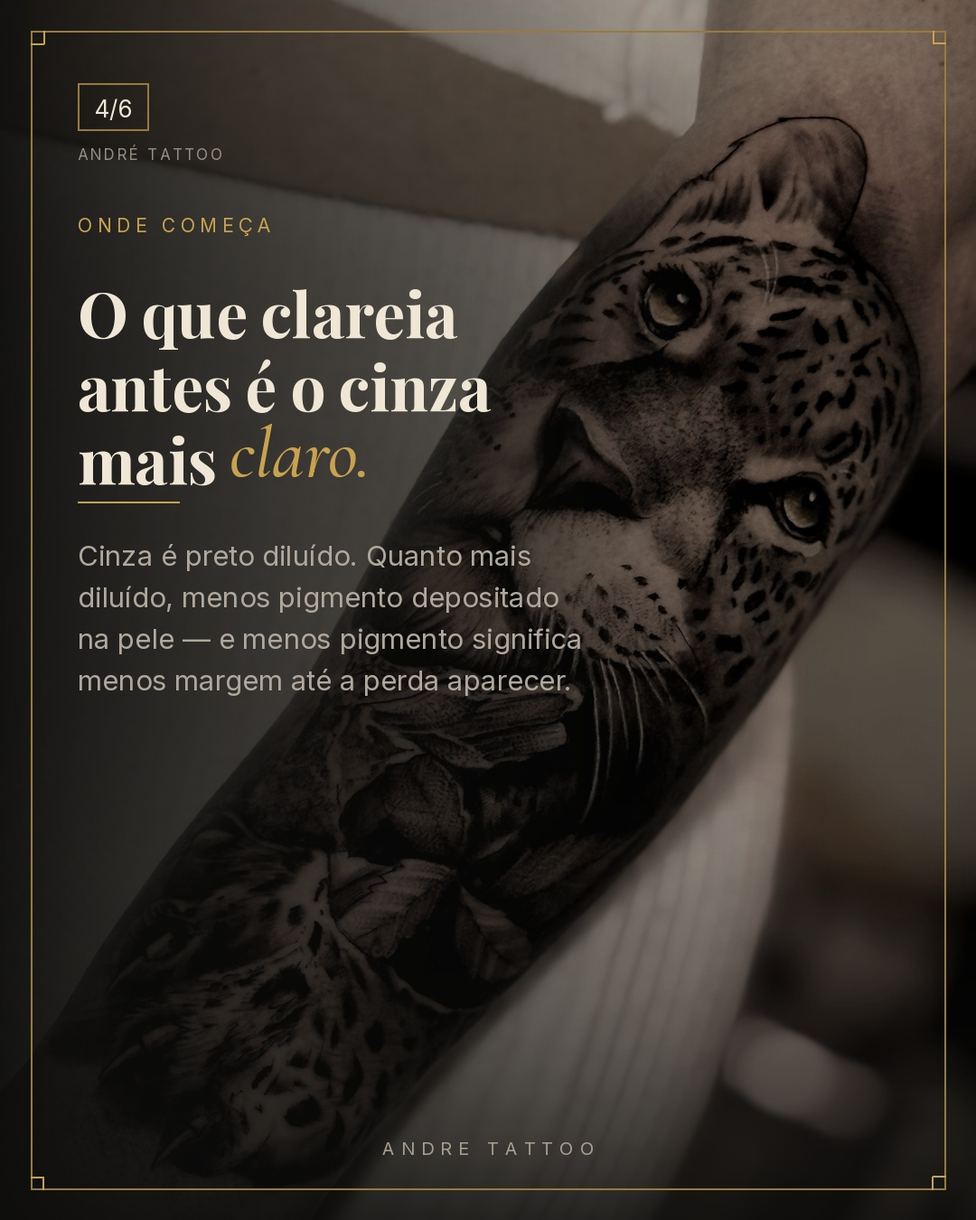
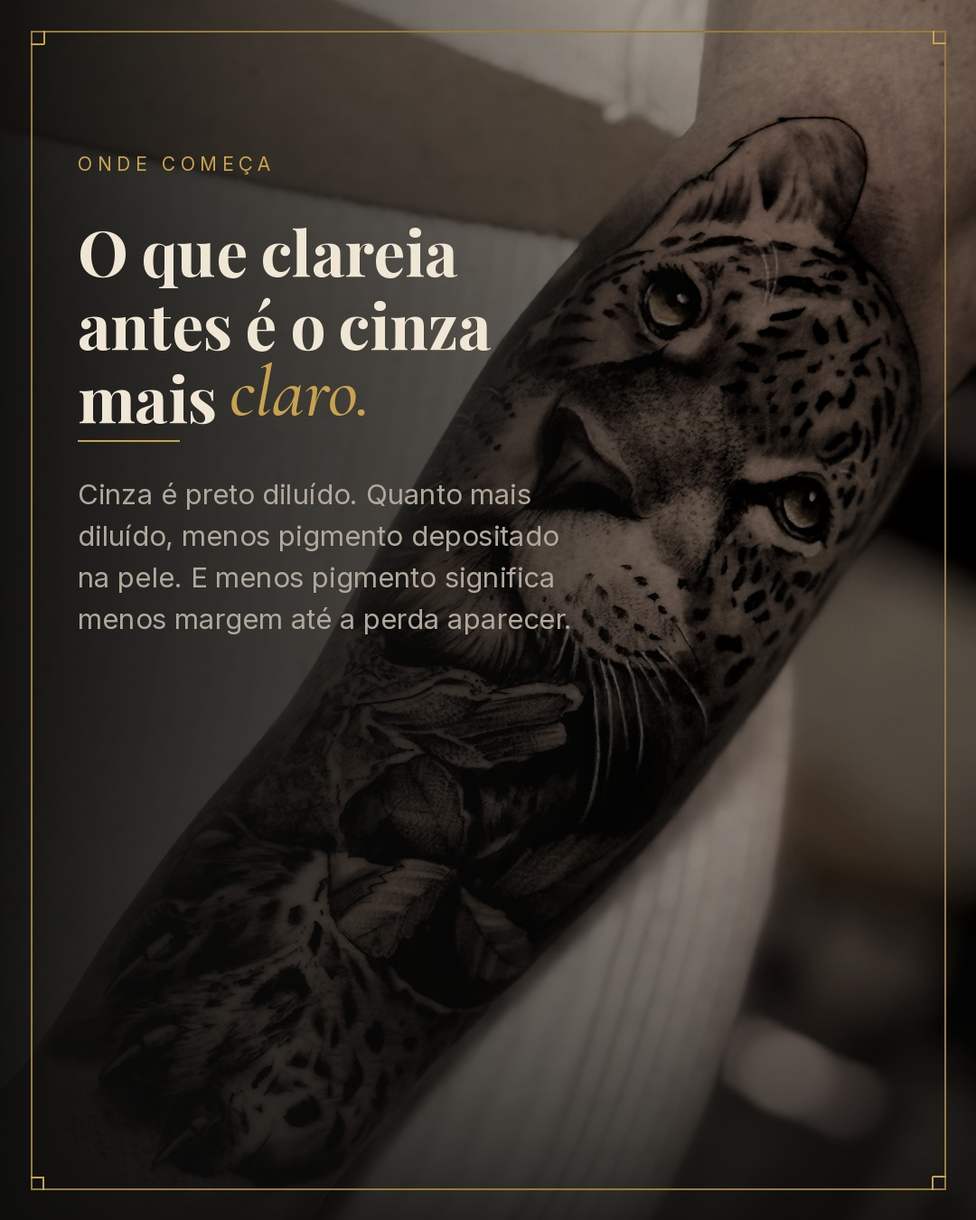
Tira selo, assinaturas e travessoes; grava a regra do traco
Pedido do Andre em 27/10 sobre o carrossel 01:
- removido o selo N/6, o "ANDRE TATTOO" do topo e o do rodape dos slides;
  o conteudo sobe para y=168 para ocupar o espaco liberado
- removidos todos os travessoes do texto dos slides, da legenda e do
  artigo, reescrevendo as frases com ponto, virgula, dois-pontos ou
  parenteses

Regra nova em contexto/marca.md (Tom de voz): traco longo e traco medio
proibidos em qualquer material da marca, porque viraram assinatura de
texto gerado por IA. Hifen de palavra composta segue normal.

scripts/validar.py passa a cobrar: erro em carrosseis/ e templates/
(material que vai para o publico), aviso no material interno antigo, que
tem 118 linhas herdadas de antes da regra e o Andre limpa quando quiser.
Os arquivos escritos nesta conversa (LE-0008, LE-0009, INDEX, plano,
roteiros dos fixados, marca.md) ja estao limpos.

Claude-Session: https://claude.ai/code/session_01EdnrMUwgUveDxzwL5hwqmi

Changed region(s): [[0.0611, 0.0622, 0.5806, 0.5911]]

diff --git a/scripts/validar.py b/scripts/validar.py
@@ -35,6 +35,25 @@ for p in re.findall(r"`((?:contexto|aprendizados|referencias|templates|skills)/[
     alvo = p.split("<")[0].rstrip("/")
     if alvo and not (raiz/alvo).exists() and "NNNN" not in p and "nome" not in p: avisos.append(f"AGENCIA.md cita caminho inexistente: {p}")
 if sem_marca: avisos.append(f"{len(sem_marca)} skills não apontam para contexto/marca.md (importadas sem alteração; ver contexto/conflitos-a-resolver.md)")
+# travessão e meia-risca são proibidos em texto da marca (contexto/marca.md, Tom de voz).
+# Erro no que sai para o público; aviso no material interno antigo, que o André limpa quando quiser.
+PUBLICO = ("carrosseis", "templates")
+INTERNO = ("skills", "contexto", "referencias", "reels", "aprendizados")
+legado = 0
+for pasta in PUBLICO + INTERNO:
+    d = raiz/pasta
+    if not d.exists(): continue
+    for f in sorted(d.rglob("*.md")):
+        for i, ln in enumerate(f.read_text(encoding="utf-8").splitlines(), 1):
+            if ln.strip() == "---" or ("\u2014" not in ln and "\u2013" not in ln):
+                continue
+            if pasta in PUBLICO:
+                erros.append(f"{f.relative_to(raiz)}:{i}: travessão proibido em material público (Tom de voz, contexto/marca.md)")
+            else:
+                legado += 1
+if legado:
+    avisos.append(f"{legado} linhas de material interno ainda usam travessão (regra nova; limpar quando convier)")
+
 pend = len(re.findall(r"\[confirmar\]", (raiz/"contexto/marca.md").read_text(encoding="utf-8")))
 print(f"skills: {len(skills)} | no mapa: {len(no_mapa)} | pendências [confirmar] em marca.md: {pend}")
 for a in avisos: print("AVISO:", a)

diff --git a/carrosseis/_template/gerar.py b/carrosseis/_template/gerar.py
@@ -1,6 +1,6 @@
 #!/usr/bin/env python3
 """
-Gerador de carrosséis editoriais — André Tattoo.
+Gerador de carrosséis editoriais do André Tattoo.
 Padrão visual de contexto/marca.md: fundo escuro, serifada creme, acento dourado,
 texto no canto superior esquerdo, rodapé "ANDRE TATTOO". Formato 4:5 (1080x1350).
 
@@ -89,15 +89,7 @@ def slide(cfg, n, total, out):
     moldura(d)
     X, larg = 86, 560
 
-    # selo N/total
-    f_num = F('inter.ttf', 26)
-    cx = f"{n}/{total}"
-    tw = d.textlength(cx, font=f_num)
-    d.rectangle([X, 92, X + tw + 36, 92 + 52], outline=(150,122,64), width=2)
-    d.text((X + 18, 92 + 12), cx, font=f_num, fill=CREME)
-    espacado(d, (X, 92 + 68), 'ANDRÉ TATTOO', F('inter.ttf', 17), (150,142,130), 2.4)
-
-    y = 236
+    y = 168
     if cfg.get('etiqueta'):
         espacado(d, (X, y), cfg['etiqueta'].upper(), F('inter.ttf', 21), DOURADO, 5.5)
         y += 62
@@ -146,10 +138,6 @@ def slide(cfg, n, total, out):
         d.rounded_rectangle([bx, by, bx + tw + 58, by + bh], radius=34,
                             outline=DOURADO, width=2, fill=(16,16,14))
         d.text((bx + 29, by + 19), cfg['cta'], font=f_c, fill=CREME)
-
-    f_rod = F('inter.ttf', 20)
-    lrg = sum(d.textlength(c, font=f_rod) + 7 for c in 'ANDRE TATTOO') - 7
-    espacado(d, ((W - lrg)/2, H - 92), 'ANDRE TATTOO', f_rod, (168,158,144), 7)
 
     im.save(out, quality=95)
     return out

diff --git a/PLANO-30-DIAS-INSTAGRAM.md b/PLANO-30-DIAS-INSTAGRAM.md
@@ -1,4 +1,4 @@
-# Plano de 30 dias — Instagram @andretatuadoor
+# Plano de 30 dias: Instagram @andretatuadoor
 
 Criado em 2026-10-20. Diagnóstico completo em [`aprendizados/LE-0008.md`](aprendizados/LE-0008.md).
 Contexto de marca obrigatório: [`contexto/marca.md`](contexto/marca.md).
@@ -31,12 +31,12 @@ Sem promessa de resultado: o controlável é retenção e conversão. Viral não
 3. **Variedade de formato impede o motivo de seguir.** Educativo, comédia e curiosidade são formatos, não promessas. Ninguém segue variedade: segue o que consegue prever. E cada formato atrai um público diferente, o que explica a evasão de 53,7%.
 4. **Volume alto derruba o alcance individual.** Dez reels em 11/10 dividiram a mesma amostra de lançamento em dez pedaços.
 
-## 2. Melhorias rápidas — Semana 1 (a primeira tela)
+## 2. Melhorias rápidas: Semana 1 (a primeira tela)
 
 Auditoria feita em 2026-10-20 sobre print do perfil. **Correção de duas suposições do plano original:** o campo nome e a bio já estão bem construídos, e o perfil tem Story ativo (o vazio no Metricool é falha de coleta, não ausência). O vazamento de conversão está em outro lugar.
 
-### 2.1 Estado atual (o que já está certo — não mexer)
-- **Nome:** `André | Tatuagem Realista | Zona Leste SP` — já indexa "tatuagem realista" e localização. Funcionando.
+### 2.1 Estado atual (o que já está certo: não mexer)
+- **Nome:** `André | Tatuagem Realista | Zona Leste SP`: já indexa "tatuagem realista" e localização. Funcionando.
 - **Bio:** promessa, prova social (+ de 1000 clientes), endereço e CTA, nessa ordem. Estrutura correta.
 - **Link:** andretattoo.netlify.app, com botão de WhatsApp nativo ao lado. Caminho curto.
 - **Capas dos destaques:** fundo escuro e tipografia serifada, coerentes com o padrão editorial.
@@ -64,7 +64,7 @@ Ordem atual: `Reformas` · `Indique e Ganhe` · `Disponíveis` · `Trabalhos`.
 
 Os quatro **pedem** algo do visitante (contrate, indique, escolha, compre). Nenhum **dá** algo. Não existe nenhum destaque que responda "por que eu sigo esse cara".
 
-Ordem proposta — dar antes de pedir:
+Ordem proposta: dar antes de pedir:
 
 | 1 | 2 | 3 | 4 | 5 |
 |---|---|---|---|---|
@@ -77,7 +77,7 @@ Ordem proposta — dar antes de pedir:
 ### 2.4 Foto de perfil
 Composição boa (luva, máquina, luz vermelha, fundo escuro), mas o rosto ocupa pouco quadro. A 40 pixels, num comentário ou na barra de Stories, vira mancha escura. **Testar um corte mais fechado no rosto**, mantendo a mesma luz. Teste de 7 dias, mede por visitas ao perfil.
 
-### 2.5 Bio — uma linha desperdiçada
+### 2.5 Bio: uma linha desperdiçada
 
 Atual:
 ```
@@ -99,12 +99,12 @@ Orçamento pelo link 👇
 Mantém prova social, ganha a promessa de recorrência e acrescenta "coberturas e fechamentos", que são os serviços de ticket alto. Regras de marca mantidas: sem preço, sem garantia de resultado.
 
 ### 2.6 O que 1.247 posts para 11 mil seguidores significam
-São **8,8 seguidores por publicação** acumulados. É a confirmação histórica do que a janela de 33 dias mostrou: o perfil produz muito e recruta pouco. Nenhuma ação nova aqui — é o argumento para o item 3.3 (baixar volume) não ser negociado.
+São **8,8 seguidores por publicação** acumulados. É a confirmação histórica do que a janela de 33 dias mostrou: o perfil produz muito e recruta pouco. Nenhuma ação nova aqui: é o argumento para o item 3.3 (baixar volume) não ser negociado.
 
 ### 2.7 Stories
 O perfil tem Story ativo no print, então o vazio no Metricool é falha de coleta. Mantém-se a meta de **3 a 5 por dia com uma enquete ou caixa de pergunta**, e passa-se a conferir a frequência real pelo app, não pelo Metricool.
 
-## 3. Melhorias estruturais — Semanas 1 a 4
+## 3. Melhorias estruturais: Semanas 1 a 4
 
 ### 3.1 Um formato só, repetido
 Industrializar a receita que já existe em [`reels/exemplo-pele-em-4-atos/RECEITA.md`](reels/exemplo-pele-em-4-atos/RECEITA.md) e não fazer mais nada até os números subirem.
@@ -122,7 +122,7 @@ Métrica mestre do formato: **tempo médio assistido acima de 7s**. É a única 
 
 ### 3.2 Reaproveitamento do acervo (vídeos e fotos antigos)
 
-O acervo é um ativo e repostar é a decisão certa — com uma regra: **nada volta cru**.
+O acervo é um ativo e repostar é a decisão certa: com uma regra: **nada volta cru**.
 
 - Todo arquivo antigo passa pela estrutura de 4 atos acima. Repost cru já foi testado pelo algoritmo e pelo público e deu 291 de alcance mediano.
 - **Uma peça antiga rende 3 reels:** (a) a transformação completa, (b) o close do processo, (c) o detalhe com o significado do elemento.
@@ -145,14 +145,14 @@ Horários pelos dados do próprio perfil:
 - **Secundário: 18h**
 - Sábado e domingo rendem cerca de metade: não queimar conteúdo bom neles
 
-### 3.4 Comentários — a largada que decide tudo
+### 3.4 Comentários: a largada que decide tudo
 Média atual de 0,5 comentário por reel, com 48 de 61 em zero. Sem comentário na primeira hora o vídeo não escapa da base.
 
 - Toda legenda termina com **uma** pergunta que um estranho responde em três palavras. Não "o que achou?". Por exemplo: "qual parte dói mais?", "cobriria a sua?", "preto e cinza ou colorido?".
 - O André responde **todos** os comentários na primeira hora. Resposta com pergunta de volta vale o dobro.
 
 ### 3.5 Site e identidade visual
-O site (`site/`) é o destino do link da bio e hoje é o único lugar onde o impacto pode ser construído sem o limite de layout do Instagram. Para servir ao plano ele precisa: abrir com a melhor transformação em tela cheia, carregar rápido no celular, repetir a mesma luz e tipografia do padrão editorial, e levar ao WhatsApp com formulário em um toque. A identidade visual já está definida e aprovada em `contexto/marca.md` — o trabalho aqui é aplicar, não redesenhar.
+O site (`site/`) é o destino do link da bio e hoje é o único lugar onde o impacto pode ser construído sem o limite de layout do Instagram. Para servir ao plano ele precisa: abrir com a melhor transformação em tela cheia, carregar rápido no celular, repetir a mesma luz e tipografia do padrão editorial, e levar ao WhatsApp com formulário em um toque. A identidade visual já está definida e aprovada em `contexto/marca.md`: o trabalho aqui é aplicar, não redesenhar.
 
 ### 3.6 Comment-gate: fabricar comentário e puxar para o direct
 
@@ -172,7 +172,7 @@ Resolve três coisas de uma vez: fabrica comentário (a métrica mais fraca do p
 | "Quanto tempo leva um fechamento de braço?" | `Comente FECHAMENTO e receba o passo a passo` | puxa projeto grande |
 | "Preto e cinza desbota com o tempo?" | `Comente TINTA e receba o artigo` | objeção clássica antes de fechar realismo |
 
-**Regras:** a arte segue o padrão editorial (fundo escuro, serifada creme, até 3 palavras no título); o material entregue no direct é real e útil, nunca isca vazia; nada de preço no conteúdo entregue; responder o direct no mesmo dia. Um comment-gate por semana, não mais — vira ruído.
+**Regras:** a arte segue o padrão editorial (fundo escuro, serifada creme, até 3 palavras no título); o material entregue no direct é real e útil, nunca isca vazia; nada de preço no conteúdo entregue; responder o direct no mesmo dia. Um comment-gate por semana, não mais: vira ruído.
 
 ### 3.7 Serializar um projeto grande: promessa vira evento
 
@@ -181,7 +181,7 @@ O @doobskennel anuncia ninhada com data ("RAVENA X TRITON, segunda quinzena de n
 A matéria-prima equivalente já existe no estúdio: **projeto grande leva várias sessões.**
 
 ```
-Fechamento de costas — sessão 2 de 5
+Fechamento de costas: sessão 2 de 5
 ```
 
 - Anunciar o projeto no início, com quantas sessões são previstas.

diff --git a/reels/roteiros-fixados/README.md b/reels/roteiros-fixados/README.md
@@ -1,18 +1,18 @@
-# Roteiros dos 3 Reels fixados — formato transformação
+# Roteiros dos 3 Reels fixados: formato transformação
 
 Criado em 2026-10-21. Base: `aprendizados/LE-0008.md` e `PLANO-30-DIAS-INSTAGRAM.md` (item 3.1).
 Contexto de marca: `contexto/marca.md`.
 
-> **Atenção:** `reels/exemplo-pele-em-4-atos/RECEITA.md` é outro formato — montagem de várias peças prontas ao som da música. Não confundir. O formato aqui é **uma peça só, do branco ao pronto**, que é o que produziu os três reels de maior alcance do perfil (10,2s / 13,1s / 15,5s de tempo médio assistido, 60% a 70% de view rate).
+> **Atenção:** `reels/exemplo-pele-em-4-atos/RECEITA.md` é outro formato: montagem de várias peças prontas ao som da música. Não confundir. O formato aqui é **uma peça só, do branco ao pronto**, que é o que produziu os três reels de maior alcance do perfil (10,2s / 13,1s / 15,5s de tempo médio assistido, 60% a 70% de view rate).
 
 ## A estrutura, igual nos três
 
 | Ato | Tempo | O que entra | Por que |
 |---|---|---|---|
-| 1 | 0:00–0:01 | a peça **pronta**, close máximo no detalhe mais forte | o dedo para no detalhe, não na peça inteira |
-| 2 | 0:01–0:03 | **corte seco** para a pele em branco ou o stencil | o contraste é o gancho; sem ele não há vídeo |
-| 3 | 0:03–0:13 | processo comprimido, 4 a 6 cortes | prova de método |
-| 4 | 0:13–0:15 | volta para a peça pronta, estática | fecha o loop e puxa rewatch |
+| 1 | 0:000:01 | a peça **pronta**, close máximo no detalhe mais forte | o dedo para no detalhe, não na peça inteira |
+| 2 | 0:010:03 | **corte seco** para a pele em branco ou o stencil | o contraste é o gancho; sem ele não há vídeo |
+| 3 | 0:030:13 | processo comprimido, 4 a 6 cortes | prova de método |
+| 4 | 0:130:15 | volta para a peça pronta, estática | fecha o loop e puxa rewatch |
 
 **Regras que valem para os três**
 - Nada de logo, texto de abertura ou fala nos primeiros 3 segundos.
@@ -20,22 +20,22 @@ Contexto de marca: `contexto/marca.md`.
 - Sem preço, sem promessa de resultado, sem escassez falsa.
 - Meta operacional: **tempo médio assistido acima de 7s**.
 - Ato 1 pode ser a **foto** final com push-in lento, se não houver vídeo bom da peça pronta. É o que destrava a produção.
-- Luz da peça pronta: neutra ou quente lateral. **Sem LED azul** — ele contamina o preto e cinza, que é a promessa da marca.
+- Luz da peça pronta: neutra ou quente lateral. **Sem LED azul**: ele contamina o preto e cinza, que é a promessa da marca.
 
 ---
 
-## Roteiro 1 — Têmis (antebraço, realismo preto e cinza)
+## Roteiro 1: Têmis (antebraço, realismo preto e cinza)
 
 A peça âncora: é o estilo que a bio promete. Esta vira o **Fixado 1**.
 
 | Tempo | Imagem | Movimento | Texto |
 |---|---|---|---|
-| 0:00–0:01 | close no **rosto vendado**, a venda ocupando o quadro | push-in curto | — |
-| 0:01–0:03 | corte seco: antebraço em branco, ou stencil roxo aplicado | estático | `PELE EM BRANCO` |
-| 0:03–0:06 | primeiros traços do contorno | close na agulha | — |
-| 0:06–0:09 | sombreado do tecido da túnica | time-lapse | — |
-| 0:09–0:13 | balança e corrente ganhando profundidade | pan lento subindo | — |
-| 0:13–0:15 | peça pronta, braço inteiro, parado | estático | — |
+| 0:000:01 | close no **rosto vendado**, a venda ocupando o quadro | push-in curto |, |
+| 0:010:03 | corte seco: antebraço em branco, ou stencil roxo aplicado | estático | `PELE EM BRANCO` |
+| 0:030:06 | primeiros traços do contorno | close na agulha |, |
+| 0:060:09 | sombreado do tecido da túnica | time-lapse |, |
+| 0:090:13 | balança e corrente ganhando profundidade | pan lento subindo |, |
+| 0:130:15 | peça pronta, braço inteiro, parado | estático |, |
 
 **Legenda** (simbolismo, sem história de cliente): a venda da Têmis não é cegueira, é recusa a julgar pela aparência. A balança pesa o fato, não quem o trouxe.
 **Pergunta final:** `Antebraço dói muito?`
@@ -44,27 +44,27 @@ A peça âncora: é o estilo que a bio promete. Esta vira o **Fixado 1**.
 
 ---
 
-## Roteiro 2 — Fada de asas de borboleta (fine line e pontilhismo)
+## Roteiro 2: Fada de asas de borboleta (fine line e pontilhismo)
 
 Modo Delicado. Público diferente da Têmis: entra como **Fixado 2** se o objetivo for mostrar alcance de estilo, ou fica fora dos fixados se o foco for só realismo.
 
 | Tempo | Imagem | Movimento | Texto |
 |---|---|---|---|
-| 0:00–0:01 | close no **rosto de olhos fechados**, cabelo e luz | push-in curto | — |
-| 0:01–0:03 | corte seco: perna em branco | estático | `SÓ PONTOS` |
-| 0:03–0:07 | pontilhismo sendo construído, close extremo na agulha | macro | — |
-| 0:07–0:11 | asa ganhando densidade, ponto a ponto | time-lapse | — |
-| 0:11–0:13 | raios e estrela finalizados | pan lento | — |
-| 0:13–0:15 | peça pronta, perna inteira | estático | — |
+| 0:000:01 | close no **rosto de olhos fechados**, cabelo e luz | push-in curto |, |
+| 0:010:03 | corte seco: perna em branco | estático | `SÓ PONTOS` |
+| 0:030:07 | pontilhismo sendo construído, close extremo na agulha | macro |, |
+| 0:070:11 | asa ganhando densidade, ponto a ponto | time-lapse |, |
+| 0:110:13 | raios e estrela finalizados | pan lento |, |
+| 0:130:15 | peça pronta, perna inteira | estático |, |
 
 O trunfo aqui é o **macro do pontilhismo**: é hipnótico e segura retenção. Se existir footage macro, ela é o coração do reel, não o contorno.
 
-**Legenda:** asas de borboleta marcam metamorfose — o que termina uma forma para começar outra. A fada é a parte que sobrevive à mudança.
+**Legenda:** asas de borboleta marcam metamorfose: o que termina uma forma para começar outra. A fada é a parte que sobrevive à mudança.
 **Pergunta final:** `Fine line ou sombreado?`
 
 ---
 
-## Roteiro 3 — Raposa (perna, blackwork)
+## Roteiro 3: Raposa (perna, blackwork)
 
 **Falta o material.** O arquivo enviado em 21/10 é gravação de tela de um player com seletor de qualidade (144p a 1080p, com cursor do mouse aparecendo), não registro de sessão. Não serve para o formato.
 
@@ -72,7 +72,7 @@ Duas saídas:
 1. Procurar o bruto da sessão da raposa e montar na mesma estrutura dos roteiros 1 e 2.
 2. Se não existir, substituir por uma **reforma** (cobertura), que é o Fixado 3 previsto no plano e o de maior valor comercial: quem tem tatuagem ruim procura ativamente e aceita ticket alto.
 
-**Sobre o truque da resolução:** o mecanismo dele é correto — esconder e entregar, que é a mesma lógica dos 4 atos. O problema é a execução: a interface falsa de player é efeito genérico, e `contexto/marca.md` pede o oposto disso ("evitar estética genérica de vídeo de tatuador, excesso de efeitos"). Além disso ele não mostra a mão do André, que é o que se contrata. O mesmo efeito de revelação, feito com pele de verdade saindo do branco, vende e posiciona.
+**Sobre o truque da resolução:** o mecanismo dele é correto: esconder e entregar, que é a mesma lógica dos 4 atos. O problema é a execução: a interface falsa de player é efeito genérico, e `contexto/marca.md` pede o oposto disso ("evitar estética genérica de vídeo de tatuador, excesso de efeitos"). Além disso ele não mostra a mão do André, que é o que se contrata. O mesmo efeito de revelação, feito com pele de verdade saindo do branco, vende e posiciona.
 
 ---
 

diff --git a/contexto/marca.md b/contexto/marca.md
@@ -5,7 +5,7 @@ Itens marcados **[confirmar]** ainda não foram informados pelo André e não de
 
 ## Identidade
 - Marca: André Tattoo. Instagram: @andretatuadoor.
-- **YouTube:** canal **André Tatuador**, `youtube.com/@andretatuadoor` (criado pelo André em 18/10/2026). A marca do estúdio continua André Tattoo — o canal é um palco dela. Projeto, régua de monetização e prazo de 31/01/2027 em `youtube/`.
+- **YouTube:** canal **André Tatuador**, `youtube.com/@andretatuadoor` (criado pelo André em 18/10/2026). A marca do estúdio continua André Tattoo: o canal é um palco dela. Projeto, régua de monetização e prazo de 31/01/2027 em `youtube/`.
 - Posicionamento principal: tatuagem de alto padrão, com forte ênfase em **realismo preto e cinza**.
 - Outros trabalhos: fine line, aquarela, realismo colorido e trabalhos delicados/femininos.
 - A marca deve transmitir qualidade, precisão, experiência, estética e confiança.
@@ -24,11 +24,11 @@ Itens marcados **[confirmar]** ainda não foram informados pelo André e não de
 
 Decisões já em produção no @andretatuadoor. Diagnóstico que as motivou: `aprendizados/LE-0008.md`. Plano: `PLANO-30-DIAS-INSTAGRAM.md`.
 
-- **Foto de perfil: o rosto do André**, corte fechado, fundo escuro e luz lateral — o modo Intenso do padrão editorial. Nunca o logo: a marca é o nome dele e o que se contrata é a mão de uma pessoa. O logo completo perde as linhas finas no corte circular do Instagram.
+- **Foto de perfil: o rosto do André**, corte fechado, fundo escuro e luz lateral: o modo Intenso do padrão editorial. Nunca o logo: a marca é o nome dele e o que se contrata é a mão de uma pessoa. O logo completo perde as linhas finas no corte circular do Instagram.
 - **O "A" do logo (sem o texto) é selo, não retrato.** Usar em: capas de destaque, último frame dos Reels, favicon do site, marca d'água discreta. O logo completo fica para site, cartão e impresso.
-- **Versões do logo [pendência de design]:** falta a versão "marca" — só o A, traço engrossado, sem o círculo fino e sem texto — para qualquer uso abaixo de 60px. A versão atual só funciona em tamanho grande.
+- **Versões do logo [pendência de design]:** falta a versão "marca": só o A, traço engrossado, sem o círculo fino e sem texto, para qualquer uso abaixo de 60px. A versão atual só funciona em tamanho grande.
 - **Bio:** linha 1 carrega a promessa de recorrência ("Toda semana uma pele sendo transformada"), que é o motivo de seguir; linha 2 junta prova social e os serviços de ticket alto (coberturas e fechamentos); depois endereço e CTA. Sem preço, sem garantia de resultado.
-- **Campo nome:** `André | Tatuagem Realista | Zona Leste SP` — indexado na busca, não mexer.
+- **Campo nome:** `André | Tatuagem Realista | Zona Leste SP`: indexado na busca, não mexer.
 - **Destaques:** `PROCESSO` e `CUIDADOS` vêm antes dos transacionais, porque são os únicos que dão motivo para seguir em vez de pedir algo. Capas idênticas com o A funcionam até cinco destaques; acima disso, diferenciar.
 - **`Indique e Ganhe` fica fora do ar** enquanto as regras do programa não existirem (ver "Indique e Ganhe" abaixo).
 - **Os três posts fixados são Reels de transformação**, não fotos de peça pronta: portfólio confirma quem já decidiu, transformação recruta quem acabou de chegar.
@@ -44,6 +44,7 @@ Instagram como canal principal, salvo instrução diferente.
 - Quase nenhuma gíria.
 - Emojis: quase nenhum (no máximo o mínimo necessário), para não parecer robô.
 - Direto, brasileiro, natural, profissional, sem linguagem robótica ou corporativa excessiva.
+- **Travessão e meia-risca: proibidos.** Nenhum texto que sai da marca usa o traço longo (em dash) nem o traço médio (en dash). Quebrar em duas frases, ou usar vírgula, dois-pontos ou parênteses. Motivo (dado pelo André em 2026-10-27): esse traço virou assinatura de texto gerado por IA e o perfil não pode passar essa impressão. Vale para legenda, carrossel, artigo, roteiro, mensagem de cliente, post, anúncio e qualquer outro material, sem exceção. Hífen de palavra composta (meio-tom, cover-up) continua normal. O `scripts/validar.py` cobra a regra: erro em material público, aviso no interno antigo.
 - **Tratamento:** íntimo, pelo nome do cliente ou "você" (nunca "senhor/senhora").
 - **Evolução do vínculo:** começa formal no primeiro contato e ganha intimidade ao longo da sessão, criando vínculo. Mensagens iniciais e de orçamento ficam no registro formal; pós-sessão e recorrência podem ser mais próximas.
 

diff --git a/carrosseis/01-preto-e-cinza-desbota/artigo.md b/carrosseis/01-preto-e-cinza-desbota/artigo.md
@@ -12,7 +12,7 @@ A pergunta útil não é "desbota?", é **"o que faz desbotar mais rápido, e o 
 
 Quando o pigmento entra na derme, células de defesa do seu corpo (os macrófagos) envolvem as partículas. Um estudo de 2018 mostrou que essas células passam o tempo todo capturando e soltando pigmento, num ciclo contínuo. É por isso que a tatuagem é permanente, mas não é imutável: ela vive dentro de um tecido vivo que se renova.
 
-Some a isso a luz ultravioleta, que quebra partículas grandes de pigmento em fragmentos menores — e fragmento menor o corpo remove com mais facilidade.
+Some a isso a luz ultravioleta, que quebra partículas grandes de pigmento em fragmentos menores, e fragmento menor o corpo remove com mais facilidade.
 
 ## Por que o preto segura melhor
 
@@ -22,13 +22,13 @@ O preto é o pigmento de maior densidade e estabilidade. Comparado a cores, é o
 
 Cinza, no preto e cinza, é preto diluído. Quanto mais diluído, menos pigmento fica depositado por centímetro de pele.
 
-Menos pigmento significa menos margem: a mesma perda que passa despercebida num preto fechado já é visível numa luz suave ou num meio-tom. Por isso as áreas mais claras da peça são as primeiras a pedir atenção — e, eventualmente, retoque.
+Menos pigmento significa menos margem: a mesma perda que passa despercebida num preto fechado já é visível numa luz suave ou num meio-tom. Por isso as áreas mais claras da peça são as primeiras a pedir atenção e, eventualmente, retoque.
 
 > Observação honesta: essa relação é física e é consenso entre tatuadores, mas não encontrei um estudo clínico que meça especificamente a diferença entre cinza diluído e preto sólido. Trato como raciocínio bem fundamentado, não como dado publicado.
 
 ## O que mais pesa, na prática
 
-**1. Sol.** É o fator externo de maior impacto. Pele sempre exposta — mão, antebraço, pescoço, pé — clareia antes do que fica coberto pela roupa. Protetor solar na pele já cicatrizada é a medida isolada mais eficaz que existe.
+**1. Sol.** É o fator externo de maior impacto. Pele sempre exposta (mão, antebraço, pescoço, pé) clareia antes do que fica coberto pela roupa. Protetor solar na pele já cicatrizada é a medida isolada mais eficaz que existe.
 
 **2. Atrito.** Áreas de fricção constante (mão, dedo, pé, lateral do tronco em quem usa mochila) perdem mais rápido.
 
@@ -44,7 +44,7 @@ Menos pigmento significa menos margem: a mesma perda que passa despercebida num 
 - Hidratar a pele como rotina.
 - Evitar esfoliante agressivo em cima da peça.
 - Na hora de projetar: conversar sobre o local antes de fechar o desenho.
-- Retoque não é defeito. Peça grande com muita luz pode pedir manutenção depois de alguns anos — isso é normal e previsto.
+- Retoque não é defeito. Peça grande com muita luz pode pedir manutenção depois de alguns anos. Isso é normal e previsto.
 
 ## O que não adianta
 
@@ -52,5 +52,6 @@ Não existe tinta "que não desbota", nem creme que congele a peça no tempo. O 
 
 ---
 
-**André Tattoo** — Realismo preto e cinza
+**André Tattoo**
+Realismo preto e cinza
 Vila Matilde, Zona Leste, São Paulo

diff --git a/aprendizados/LE-0009.md b/aprendizados/LE-0009.md
@@ -1,4 +1,4 @@
-# LE-0009 — Benchmark @doobskennel: densidade por post, comment-gate e serialização
+# LE-0009: Benchmark @doobskennel: densidade por post, comment-gate e serialização
 
 ID: LE-0009
 ORIGEM: estrategista-instagram
@@ -17,7 +17,7 @@ OBSERVAÇÃO:
 PADRÃO:
 1. Densidade vence volume. Peça projetada rende ordens de grandeza mais que foto crua publicada em série.
 2. Comment-gate fabrica a métrica que falta e move a conversa para o direct no mesmo movimento.
-3. Evento com data converte melhor que promessa de recorrência, porque tem elenco, cronograma e desfecho — a pessoa segue para ver terminar.
+3. Evento com data converte melhor que promessa de recorrência, porque tem elenco, cronograma e desfecho: a pessoa segue para ver terminar.
 
 APRENDIZADO:
 Aplicar ao @andretatuadoor: comment-gate semanal (REFORMA, FECHAMENTO, TINTA), serialização de projeto grande por sessão ("sessão 2 de 5"), padrão editorial em todas as peças e não só em algumas, e selos de prova visuais no lugar de alegação em texto. Registrado em `PLANO-30-DIAS-INSTAGRAM.md` 3.6 e 3.7.
@@ -27,7 +27,7 @@ Sobre logo como foto de perfil: o caso de referência não contradiz a regra de 
 CONFIANÇA: 3
 APLICÁVEL A: estrategista-instagram, diretor-conteudo-copy, posts-semana-instagram, arte-post-gemini, legenda-tattoo, cerebro-estrategico, arquiteto-ofertas, crm-followup
 EVIDÊNCIA: dois prints do perfil de referência (grid e topo) em 22/10/2026, comparados com os prints do @andretatuadoor de 20 e 21/10 e com a janela de métricas do LE-0008.
-RESTRIÇÕES: Nichos diferentes — canil vende ninhada com data natural, tatuagem não tem equivalente automático (a serialização por sessão é a adaptação, não uma cópia). Métricas do perfil de referência são públicas e parciais: não há alcance, retenção nem conversão. O número de 96 por post é razão acumulada, não ritmo medido. Não copiar sorteio nem linguagem de escassez.
+RESTRIÇÕES: Nichos diferentes: canil vende ninhada com data natural, tatuagem não tem equivalente automático (a serialização por sessão é a adaptação, não uma cópia). Métricas do perfil de referência são públicas e parciais: não há alcance, retenção nem conversão. O número de 96 por post é razão acumulada, não ritmo medido. Não copiar sorteio nem linguagem de escassez.
 STATUS: Padrão
 TIPO: benchmark externo
 HISTÓRICO:

diff --git a/carrosseis/README.md b/carrosseis/README.md
@@ -1,4 +1,4 @@
-# Carrosséis editoriais — série "No estúdio"
+# Carrosséis editoriais: série "No estúdio"
 
 Série de artigos em carrossel, no padrão visual de `contexto/marca.md`, com as tattoos do André como fundo. Mecânica de comment-gate definida em `PLANO-30-DIAS-INSTAGRAM.md` 3.6. Origem da tática: `aprendizados/LE-0009.md`.
 
@@ -13,7 +13,7 @@ O gerador (`_template/gerar.py`) monta 6 slides 1080x1350 a partir do `config.js
 
 ## Regras do template
 
-- Fundo: foto real da tattoo, neutralizada para preto e cinza, escurecida, com painel suave atrás da coluna de texto. **A tattoo nunca é redesenhada** — só tratamento de luz e cor, como manda `contexto/marca.md`.
+- Fundo: foto real da tattoo, neutralizada para preto e cinza, escurecida, com painel suave atrás da coluna de texto. **A tattoo nunca é redesenhada**: só tratamento de luz e cor, como manda `contexto/marca.md`.
 - A neutralização de cor corrige de quebra dominantes de LED colorido no estúdio (o azul da foto da Têmis, por exemplo).
 - Texto no canto superior esquerdo. Título em Playfair creme; a palavra entre `*asteriscos*` sai em cursiva dourada.
 - Moldura dourada fina com cantos, selo `N/6`, rodapé centralizado `ANDRE TATTOO`.

diff --git a/aprendizados/INDEX.md b/aprendizados/INDEX.md
@@ -3,7 +3,7 @@
 Um arquivo por aprendizado: `LE-NNNN.md`, no formato da seção 8 de `skills/learning-engine/SKILL.md`.
 Antes de criar um novo, procure aqui. Se já existir, some evidência ao existente.
 
-| ID | Origem | Aprendizado (1 linha) | Confiança (1–5) | Status | Aplicável a |
+| ID | Origem | Aprendizado (1 linha) | Confiança (15) | Status | Aplicável a |
 |---|---|---|---|---|---|
 | LE-0001 | orcamento-tattoo | Cor (preto e cinza x colorido) não é um dos 4 itens obrigatórios; "realista" fica ambíguo | 1 | Hipótese | orcamento-tattoo, briefing-projeto-tattoo, closer-vendas |
 | LE-0002 | orcamento-tattoo, closer-vendas, lembrete-sessao | Falta etapa explícita para "valor + sinal" e "sinal recebido + agendamento" no fluxo | 1 | Hipótese | orcamento-tattoo, closer-vendas, lembrete-sessao, registrar-no-sistema |

diff --git a/aprendizados/LE-0008.md b/aprendizados/LE-0008.md
@@ -1,4 +1,4 @@
-# LE-0008 — A trava do Instagram é conversão e base morta, não alcance nem qualidade
+# LE-0008: A trava do Instagram é conversão e base morta, não alcance nem qualidade
 
 ID: LE-0008
 ORIGEM: estrategista-instagram, analista-metricas

diff --git a/templates/APRENDIZADO.template.md b/templates/APRENDIZADO.template.md
@@ -1,4 +1,4 @@
-# LE-0000 — título curto
+# LE-0000: título curto
 
 ID: LE-0000
 ORIGEM: <skill>
